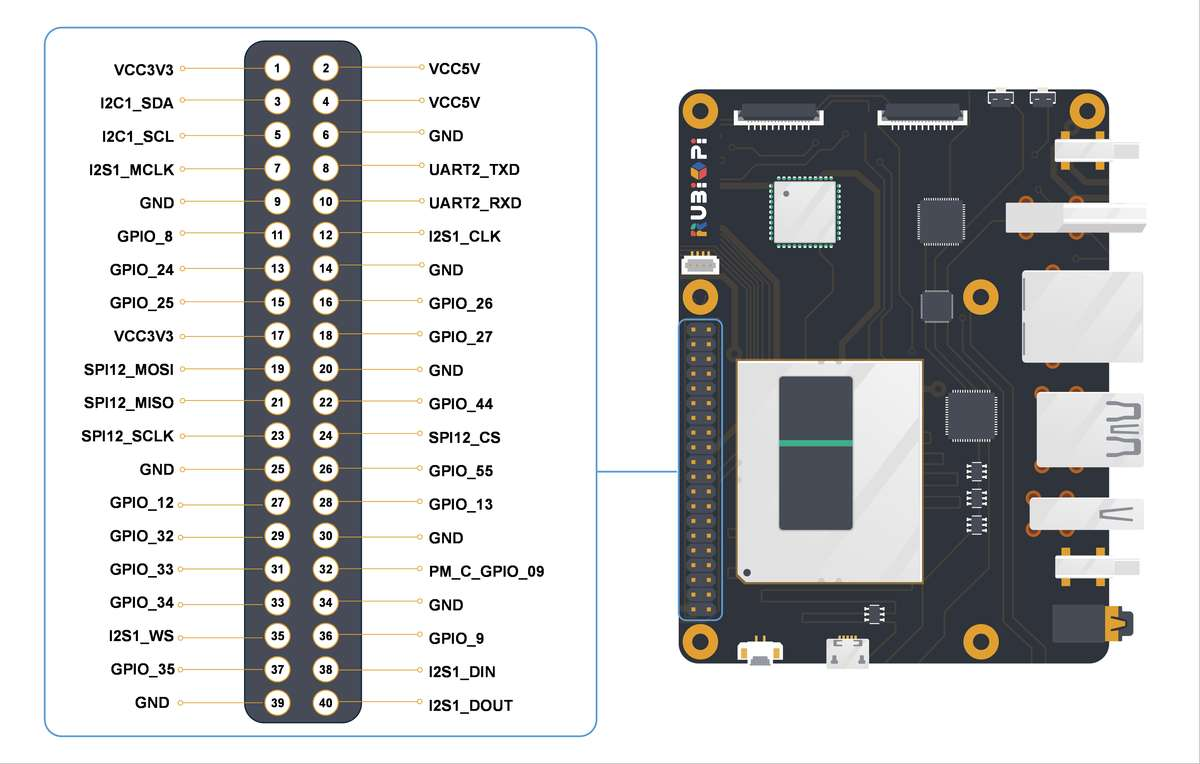
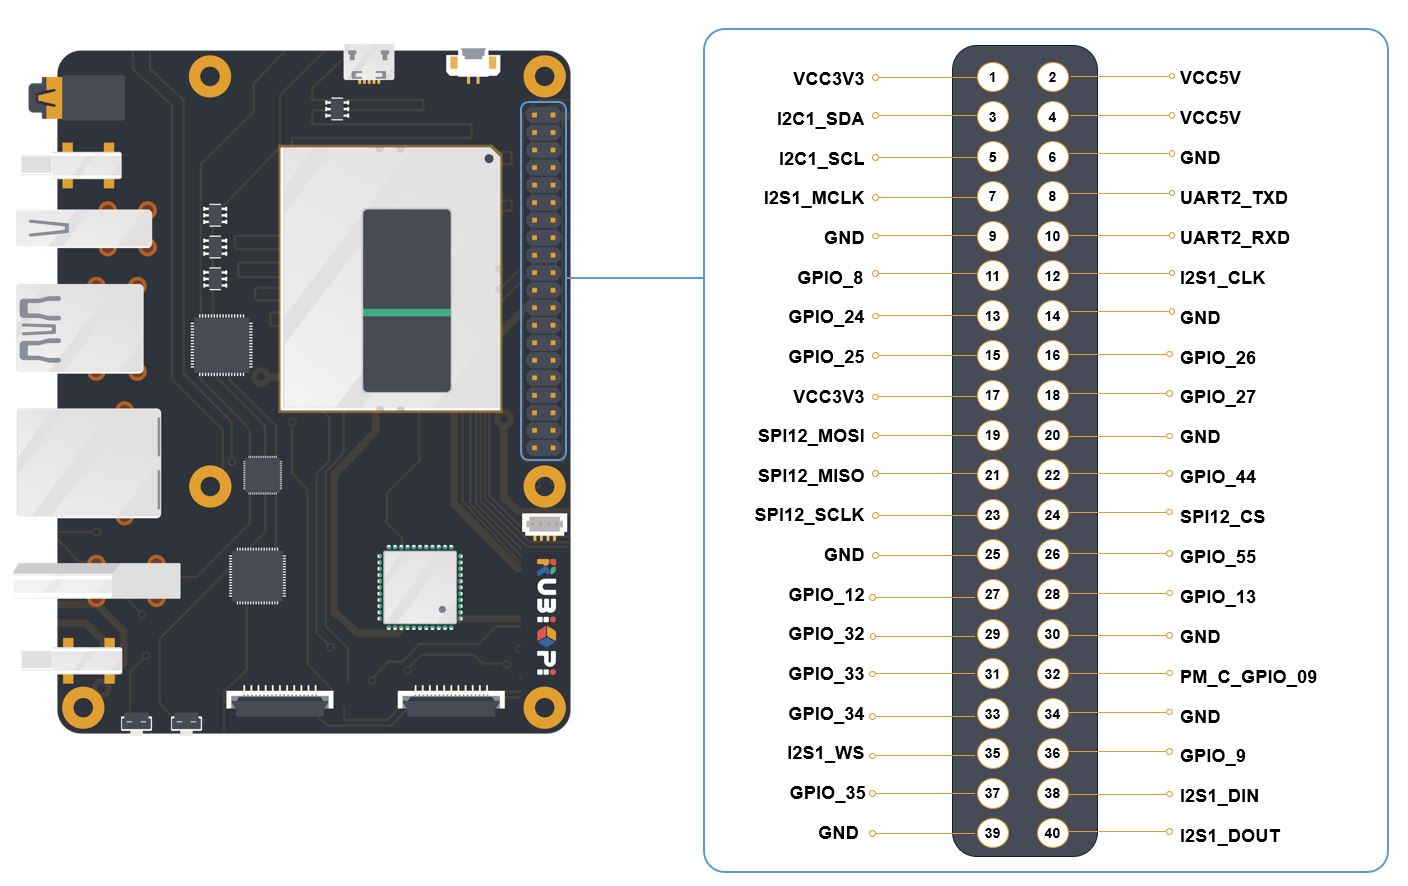
添加dogfooding章节中文，替换颠倒40-pin图

diff --git a/docs/Document Home/15.Dogfooding-Guide/3.run-sample-applications.md b/docs/Document Home/15.Dogfooding-Guide/3.run-sample-applications.md
@@ -64,7 +64,7 @@ sudo ./download_artifacts.sh -v GA1.5-rel -c QCS6490
 ### 步骤3：示例应用程序 
 ##### 输入源 – 媒体文件；输出源 - Waylandsink
 ##### 模型精度 - 量化模型；运行时 - TFLite；使用的脚本 - JSON
-####  对于多媒体示例应用程序，请确保已连接相机（前提条件）
+####  对于多媒体示例应用程序，请确保已连摄像头（前提条件）
 
 
 | 示例应用名称           |  详情   | AI Hub模型（默认）         |

diff --git a/docs/Document Home/15.Dogfooding-Guide/1.setup.md b/docs/Document Home/15.Dogfooding-Guide/1.setup.md
@@ -1,7 +1,7 @@
 # 🛠 设置指南
 
 ## 📘 概述
-本文档为设置RUBIK Pi 3的分步指南。每个步骤都包含相关文档的引用，以便获取详细说明。
+本文档为设置魔方派 3的分步指南。每个步骤都包含相关文档的引用，以便获取详细说明。
 
 ## ✅ 步骤
 

diff --git a/docs/Document Home/2.peripherals-and-interfaces/3.csi.md b/docs/Document Home/2.peripherals-and-interfaces/3.csi.md
@@ -1,4 +1,4 @@
-# 相机串行接口（CSI）
+#摄像头串行接口（CSI）
 
 目前 RUBIK Pi 3 兼容的摄像头详见[外设兼容列表](https://www.thundercomm.com/rubik-pi-3/cn/docs/peripheral-compatibility-list)。下表显示了每个摄像头模块支持的分辨率：
 
